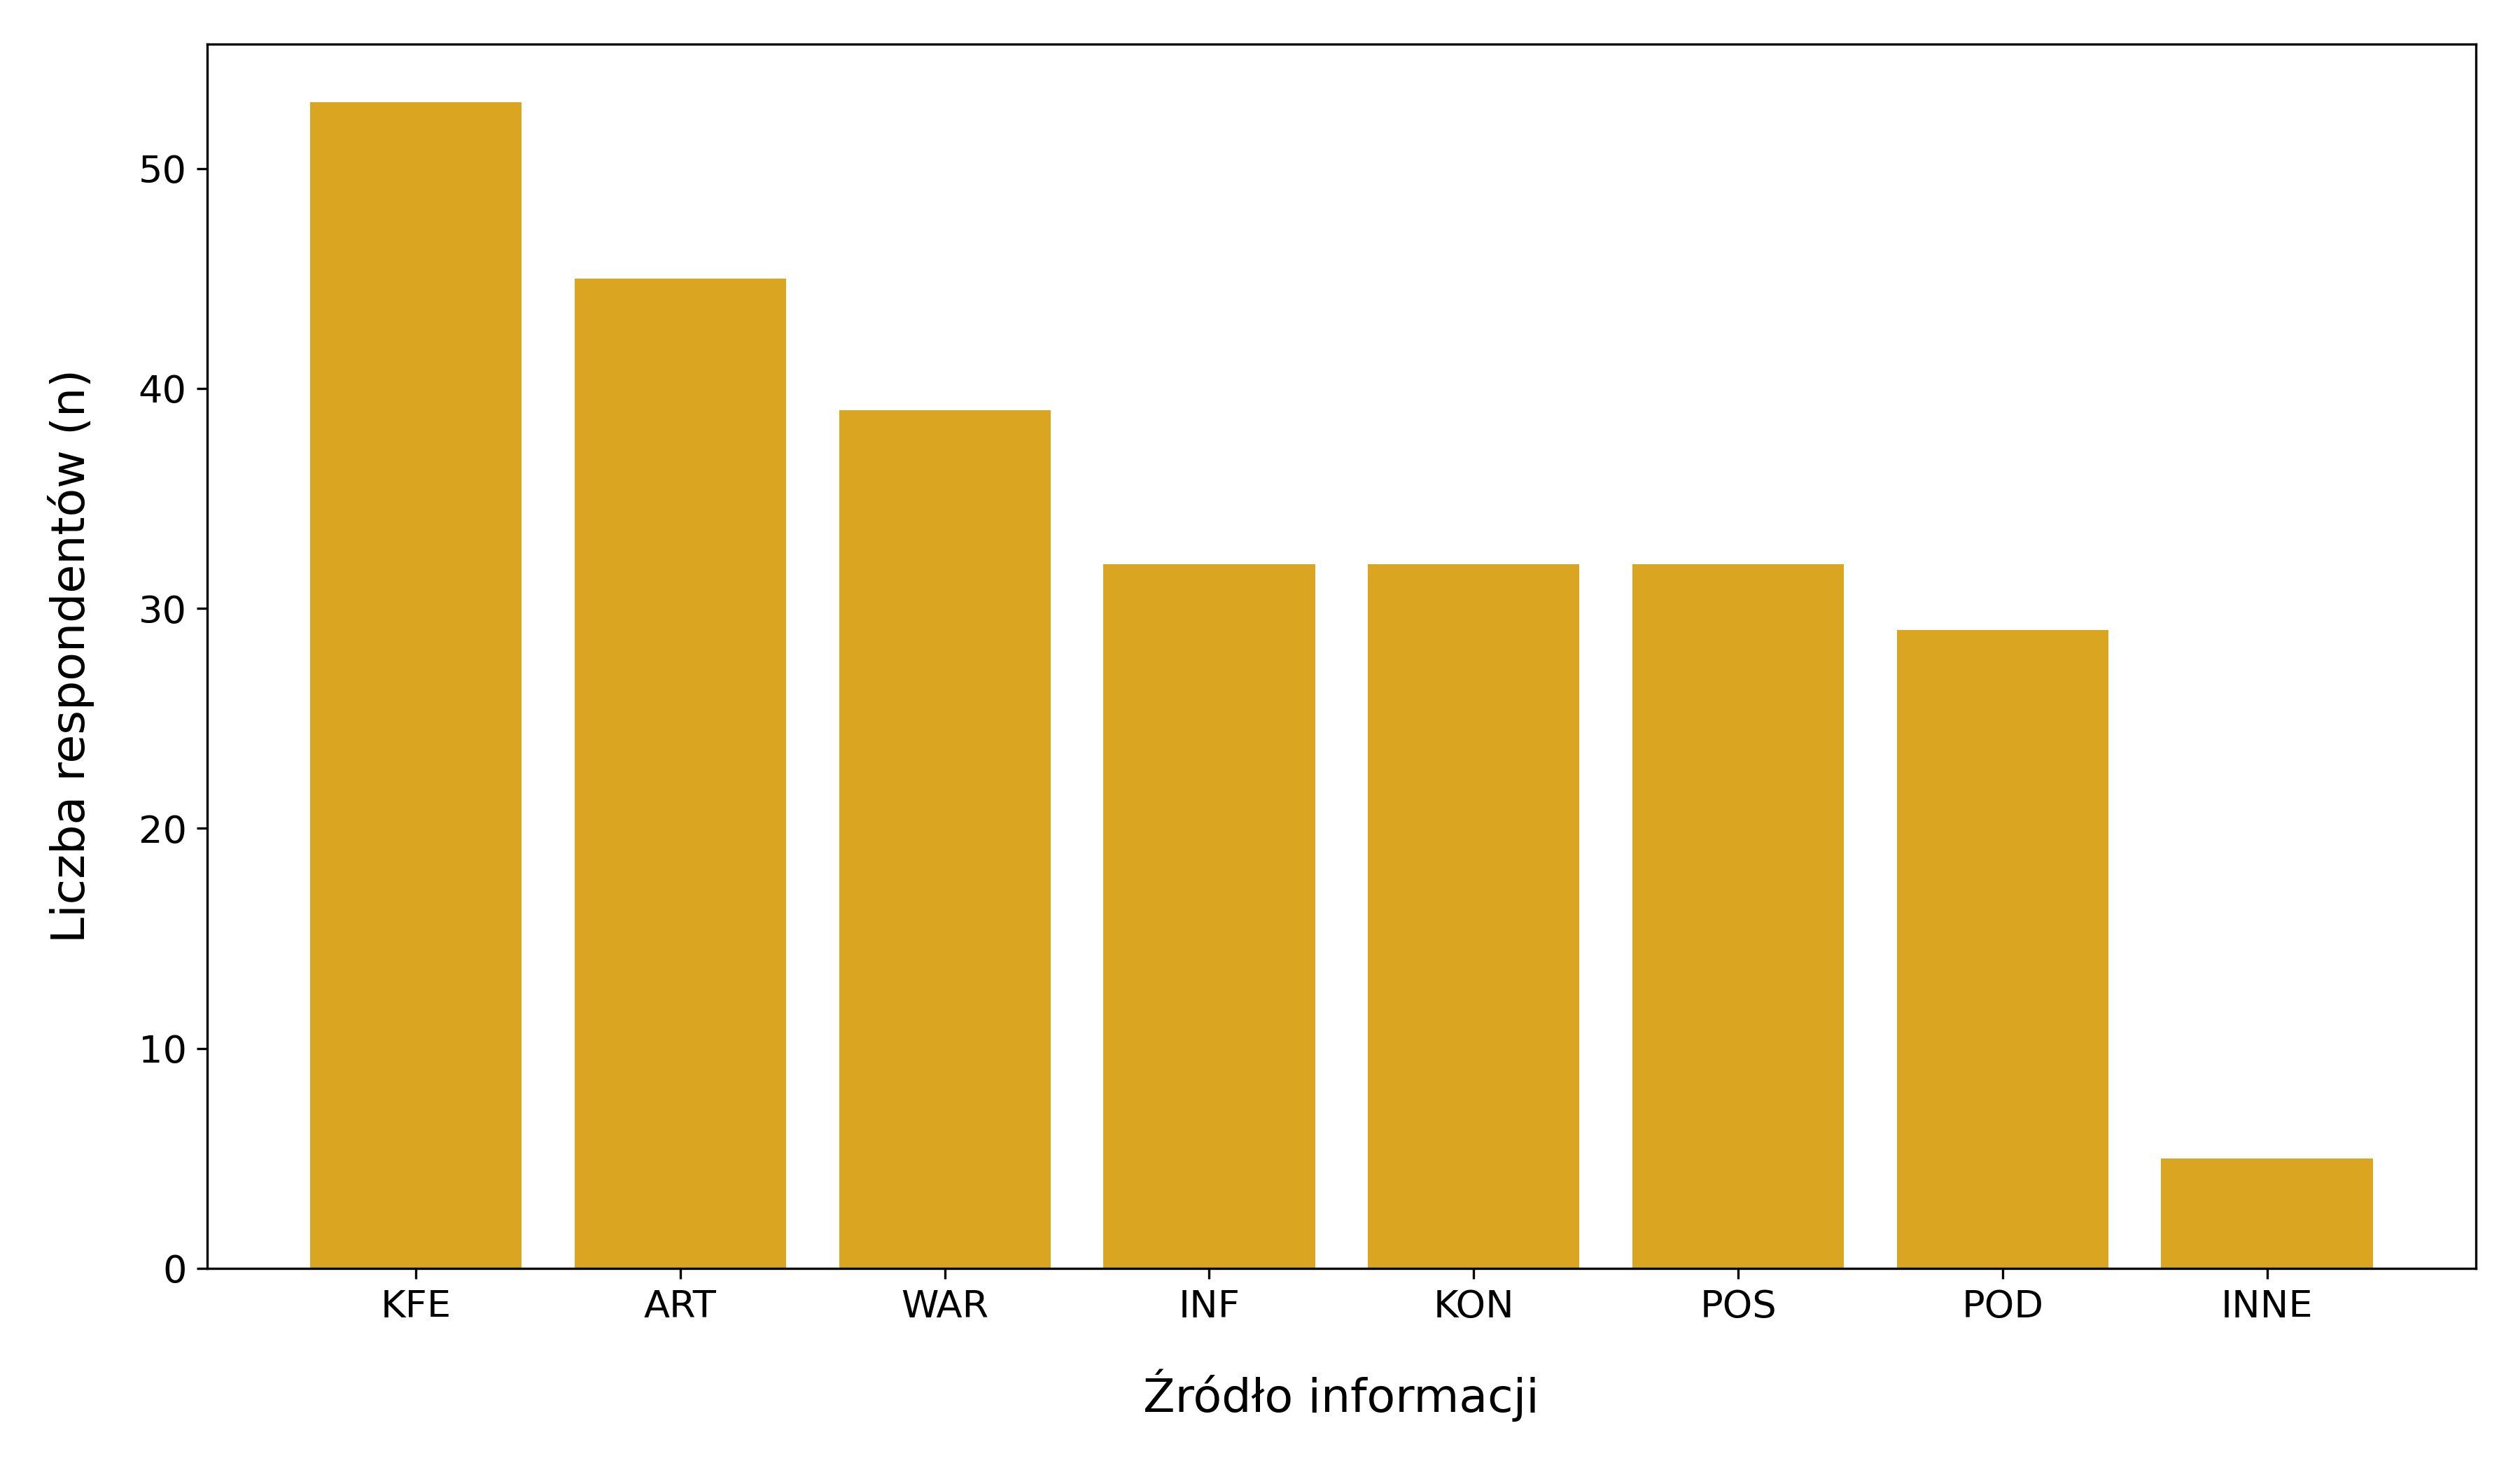
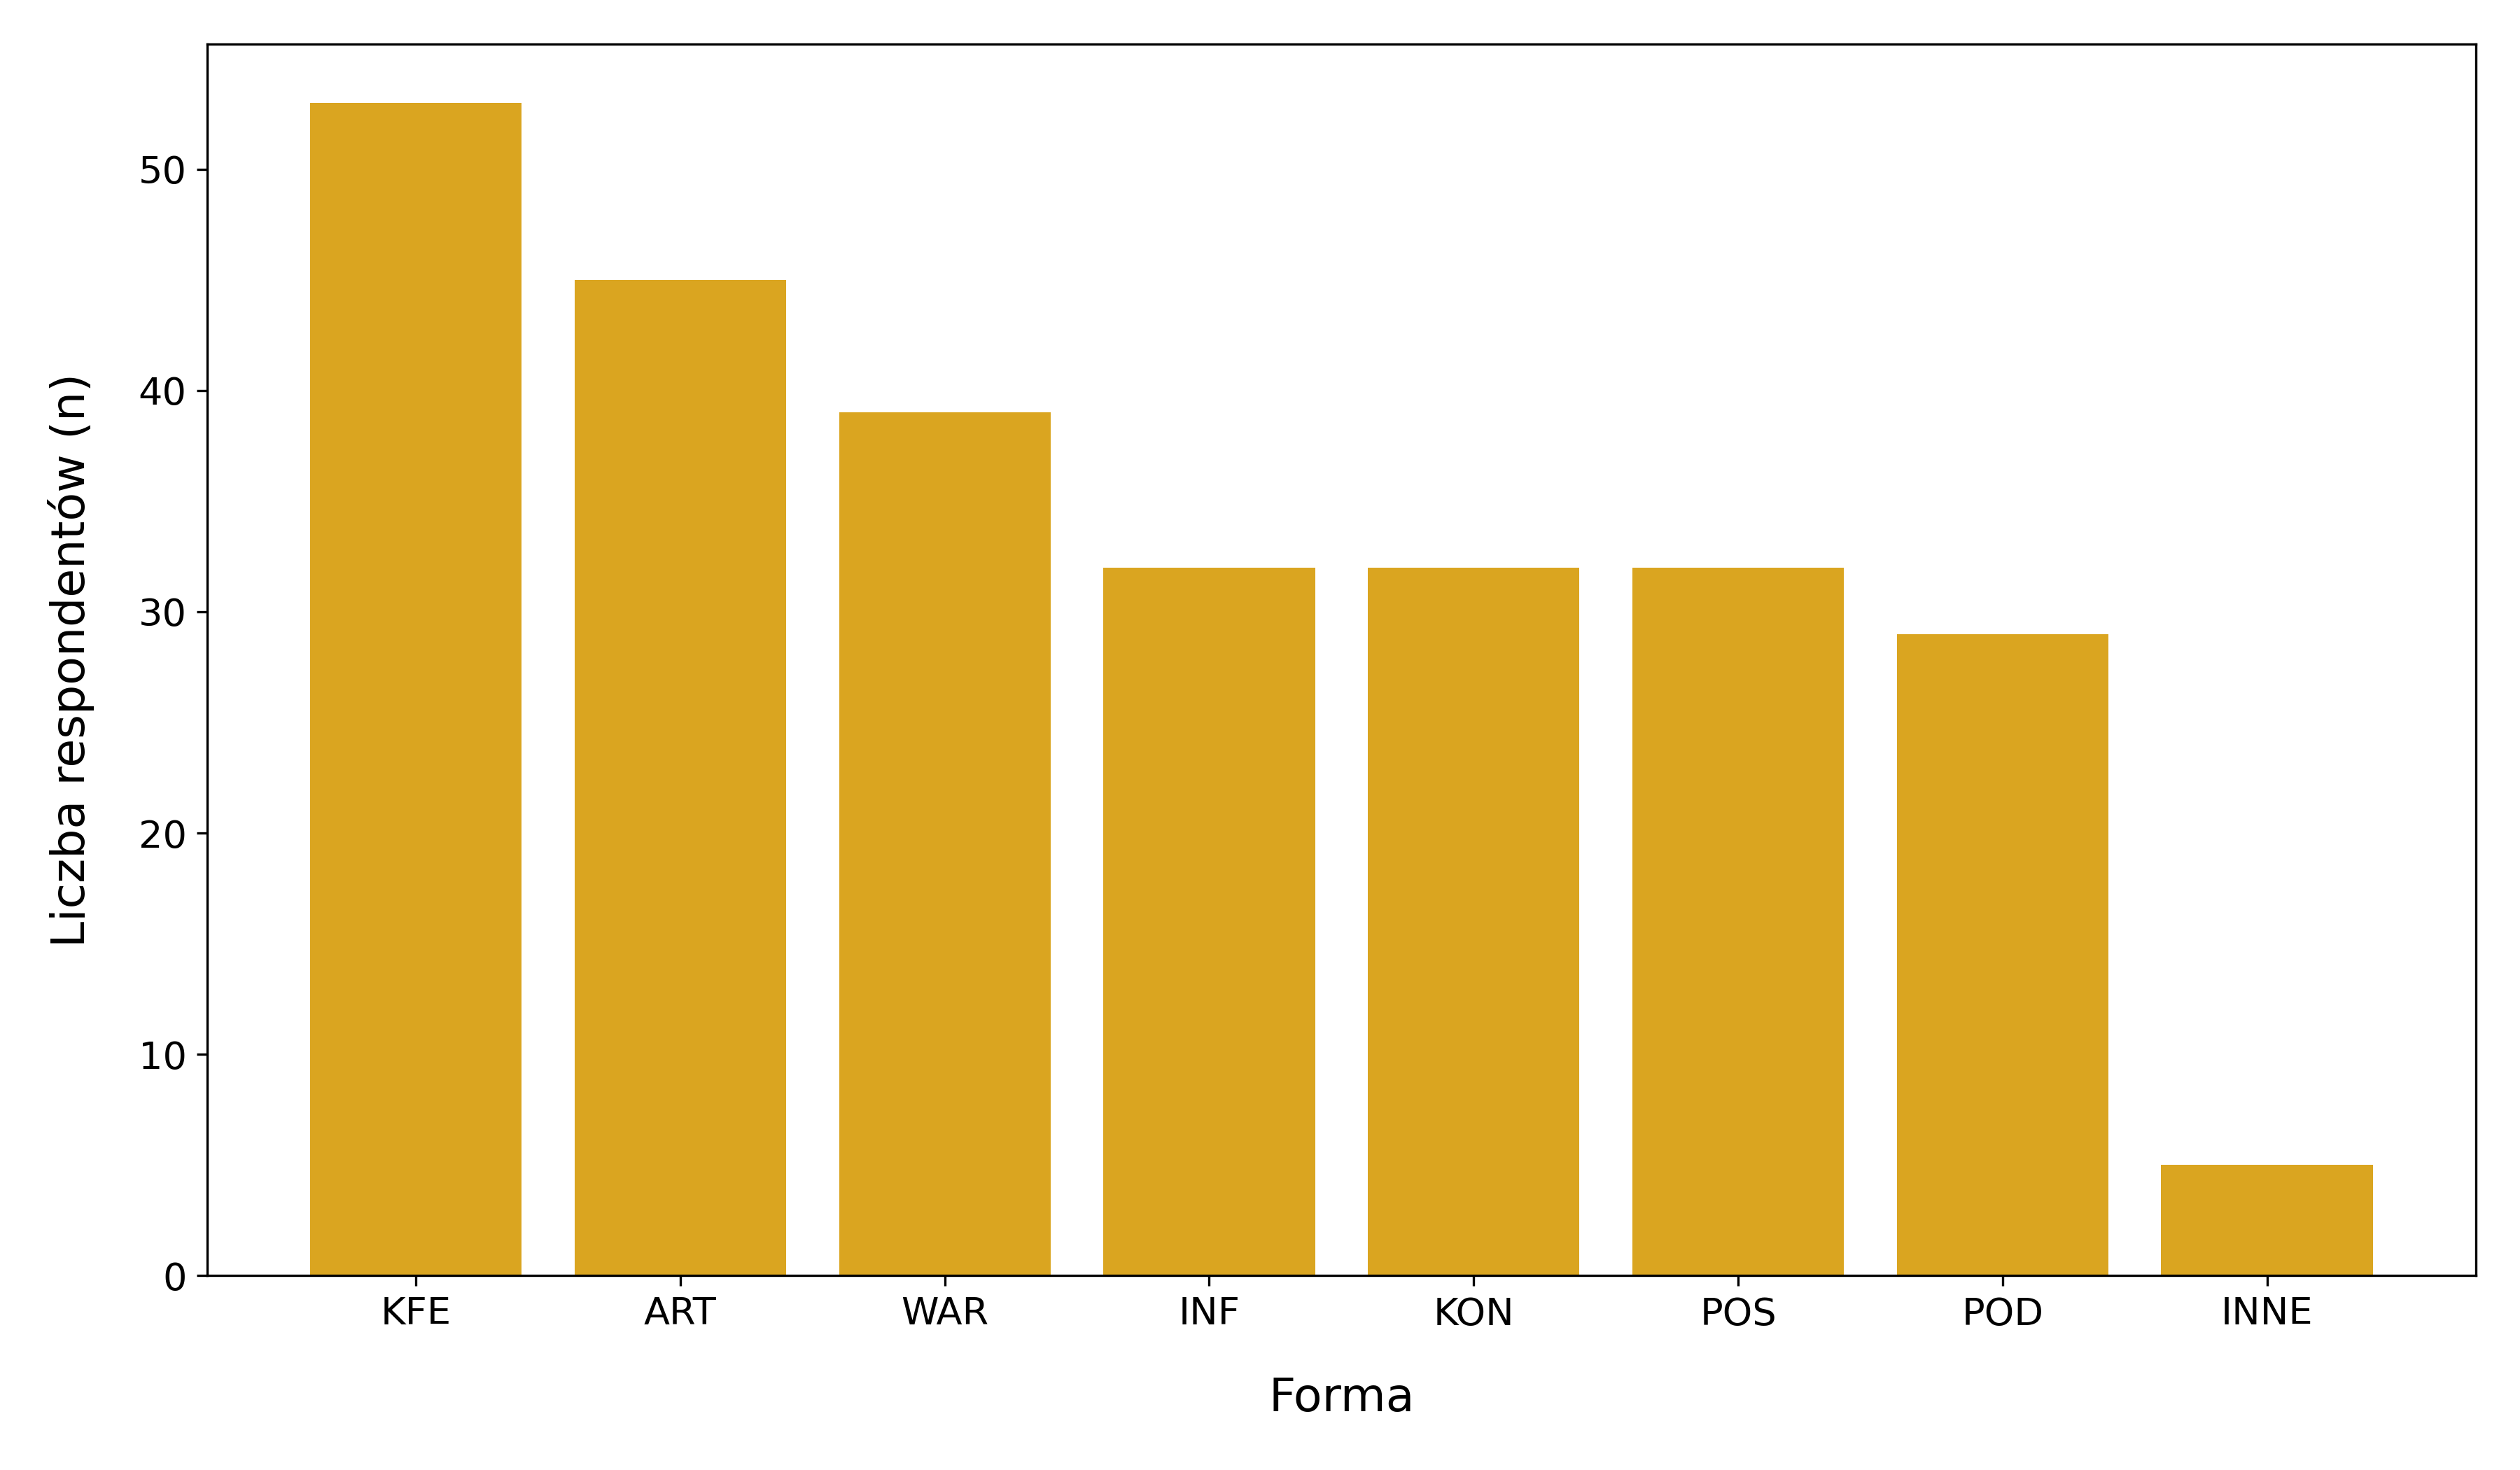
Addition of plots and tables

diff --git a/4-wyniki.tex b/4-wyniki.tex
@@ -19,9 +19,9 @@
         Płeć & n & \% \\
         \hline
         \hline
-        Kobieta & 90 & 84.1\% \\
+        Kobieta & 90 & 84.1 \\
         \hline
-        Mężczyzna & 17 &  15.9\%\\
+        Mężczyzna & 17 &  15.9\\
         \hline
     \end{tabular}
 \end{table}
@@ -79,37 +79,37 @@
         Kierunek studiów & n & \% \\
         \hline
         \hline
-        Psychologia & 51 & 47.2\% \\
+        Psychologia & 51 & 47.2 \\
         \hline
-        Dietetyka & 27 & 25\% \\
+        Dietetyka & 27 & 25 \\
         \hline
-        Informatyka & 4 & 3.7\% \\
+        Informatyka & 4 & 3.7 \\
         \hline
-        Filologia & 3 & 2.7\% \\
+        Filologia & 3 & 2.7 \\
         \hline
-        Finanse i rachunkowość & 3 & 2.7\% \\
+        Finanse i rachunkowość & 3 & 2.7 \\
         \hline
-        Fizjoterapia & 3 & 2.7\% \\
+        Fizjoterapia & 3 & 2.7 \\
         \hline
-        Logistyka & 3 & 2.7\% \\
+        Logistyka & 3 & 2.7 \\
         \hline
-        Business & 2 & 1.8\%\\
+        Business & 2 & 1.8\\
         \hline
-        Kryminologia i kryminalistyka & 2 & 1.8\% \\
+        Kryminologia i kryminalistyka & 2 & 1.8 \\
         \hline
-        Medycyna & 2 & 1.8\% \\
+        Medycyna & 2 & 1.8 \\
         \hline
-        Prawo & 2 & 1.8\% \\
+        Prawo & 2 & 1.8 \\
         \hline
-        Psychologia i psychoterapia & 2 & 1.8\% \\
+        Psychologia i psychoterapia & 2 & 1.8 \\
         \hline
-        Administracja & 1 & 0.9\% \\
+        Administracja & 1 & 0.9 \\
         \hline
-        Behawiorystyka i psychologia zwierząt & 1 & 0.9\% \\
+        Behawiorystyka i psychologia zwierząt & 1 & 0.9 \\
         \hline
-        Bezpieczeństwo wewnętrzne & 1 & 0.9\% \\
+        Bezpieczeństwo wewnętrzne & 1 & 0.9 \\
         \hline
-        Mediacja sztuki & 1 & 0.9\% \\
+        Mediacja sztuki & 1 & 0.9 \\
         \hline
     \end{tabular}
 \end{table}
@@ -123,15 +123,15 @@
         Aktywność fizyczna & n & \% \\
         \hline
         \hline
-        Nigdy & 4 & 3.7\% \\
+        Nigdy & 4 & 3.7 \\
         \hline
-        Rzadziej niż raz w tygodniu & 36 & 33.6\% \\
+        Rzadziej niż raz w tygodniu & 36 & 33.6 \\
         \hline
-        1–2 razy w tygodniu	& 28 & 26.2\% \\
+        1–2 razy w tygodniu	& 28 & 26.2 \\
         \hline
-        3–4 razy w tygodniu & 25 & 23.4\% \\
+        3–4 razy w tygodniu & 25 & 23.4 \\
         \hline
-        5 lub więcej razy w tygodniu & 14 & 13.1\% \\
+        5 lub więcej razy w tygodniu & 14 & 13.1 \\
         \hline
     \end{tabular}
 \end{table}
@@ -189,9 +189,9 @@
         Aktualne stosowanie suplementów & n & \% \\
         \hline
         \hline
-        Tak & 97 & 90.7\% \\
+        Tak & 97 & 90.7 \\
         \hline
-        Nie & 10 & 9.3\% \\
+        Nie & 10 & 9.3 \\
         \hline
     \end{tabular}
 \end{table}
@@ -380,7 +380,6 @@
     \includegraphics[width=\textwidth]{plots/powody-suplementacji.png}
     \centering
     \caption{Wykres słupkowy pokazujący powody suplementacji w grupie badawczej. Zastosowane skróty: POPZDR - Poprawa zdrowia, ZAPNIE - Zapobieganie niedoborom, WZMODP - Wzmocnienie odporności, POPWYG - Poprawa wyglądu (skóra włosy paznokcie), ZWIENE - Zwiększenie energii, POPKON - Poprawa koncentracji, POPSAM - Poprawa samopoczucia, INNE - Inne odpowiedzi.}
-
     \label{fig:powody-supl}
 \end{figure}
 
@@ -394,6 +393,120 @@
 \subsection{Źródła wiedzy}
 
 % Należy pokazać, skąd studenci czerpią wiedzę o suplementach.
+
+% Źródła
+
+\begin{table}[h!]
+    \centering
+    \caption{Źródła informacji}
+    \label{tab:zrodla-info}
+    \begin{tabular}{|l|l|l|}
+        \hline
+        Źródło & n  & \% respondentów \\
+        \hline
+        \hline
+        Internet (artykuły, blogi) & 67 & 69.07 \\
+        \hline
+        Lekarz & 39 & 40.21 \\
+        \hline
+        Dietetyk & 37 & 38.14 \\
+        \hline
+        Media społecznościowe  & 31 & 31.96 \\
+        \hline
+        Znajomi/rodzina & 29 & 29.9 \\
+        \hline
+        Farmaceuta & 27 & 27.84 \\
+        \hline
+        Reklamy & 10 & 10.31 \\
+        \hline
+        Inne odpowiedzi & 10  & 10.31 \\
+        \hline
+    \end{tabular}
+\end{table}
+
+\begin{figure}
+    \includegraphics[width=\textwidth]{plots/zrodla-informacji.png}
+    \centering
+    \caption{Wykres pokazujący źródła informacji o suplementach w grupie badawczej. Zastosowane skróty: INT - Internet (artykuły, blogi), LEK - Lekarz, DIET - Dietetyk, MED-SPO - Media społecznościowe, ZNA-ROD - Znajomi/rodzina, FARM - Farmaceuta, REK - Reklamy, INNE - Inne odpowiedzi.}
+    \label{fig:zrodla-info}
+\end{figure}
+
+% Wiarygodne źródła
+
+\begin{table}[h!]
+    \centering
+    \caption{Wiarygodne źródła informacji. Zastosowane skróty: PROF - \enquote{Takie, którego polecenia nie wynikają z profitów jakie otrzymują}, FUNK - \enquote{Lekarze medycyny funkcjonalnej}, ZBR - \enquote{Portale zbierające wyniki badań lub też oponie specjalistów, ale wielu, żeby mozna było porównać podejścia, nie ufam jednemu lekarzowi, dietetykowi itp. ponieważ każdy mówi co innego}.}
+    \label{tab:wiarygodne-zrodla}
+    \begin{tabular}{|l|l|l|}
+        \hline
+        Źródło & n  & \% respondentów \\
+        \hline
+        \hline
+        Lekarz & 67 & 69.07 \\
+        \hline
+        Naukowe portale internetowe & 39 & 40.21 \\
+        \hline
+        Instytucje zdrowia publicznego & 37 & 38.14 \\
+        \hline
+        Dietetyk & 31 & 31.96 \\
+        \hline
+        Farmaceuta & 29 & 29.9 \\
+        \hline
+        Badania naukowe & 27 & 27.84 \\
+        \hline
+        PROF & 10 & 10.31 \\
+        \hline
+        FUNK & 10  & 10.31 \\
+        \hline
+        ZBR & 10  & 10.31 \\
+        \hline
+    \end{tabular}
+\end{table}
+
+\begin{figure}
+    \includegraphics[width=\textwidth]{plots/wiarygodne-zrodla.png}
+    \centering
+    \caption{Wykres pokazujący zaufanie w różne źródła informacji o suplementach w grupie badawczej. Zastosowane skróty: LEK - Lekarz, NAUK - Naukowe portale internetowe, INST - Instytucje zdrowia publicznego, DIET - Dietetyk, FARM - Farmaceuta, BAD - Badania naukowe, PROF - \enquote{Takie, którego polecenia nie wynikają z profitów jakie otrzymują}, FUNK - \enquote{Lekarze medycyny funkcjonalnej}, ZBR - \enquote{Portale zbierające wyniki badań lub też oponie specjalistów, ale wielu, żeby mozna było porównać podejścia, nie ufam jednemu lekarzowi, dietetykowi itp. ponieważ każdy mówi co innego}.}
+    \label{fig:wiarygodne-zrodla}
+\end{figure}
+
+% Preferowane formy edukacji
+
+\begin{table}[h!]
+    \centering
+    \caption{Preferowane formy edukacji}
+    \label{tab:formy}
+    \begin{tabular}{|l|l|l|}
+        \hline
+        Forma & n  & \% respondentów \\
+        \hline
+        \hline
+        Krótkie filmy edukacyjne & 53 & 54.64 \\
+        \hline
+        Artykuły popularnonaukowe & 45 & 46.39 \\
+        \hline
+        Warsztaty na uczelni & 39 & 40.21 \\
+        \hline
+        Infografiki & 32 & 32.99 \\
+        \hline
+        Konsultacje z farmaceutą & 32 & 32.99 \\
+        \hline
+        Posty na Instagramie/TikToku & 32 & 32.99 \\
+        \hline
+        Podcasty & 29 & 29.9 \\
+        \hline
+        Inne odpowiedzi & 5 & 5.15 \\
+        \hline
+    \end{tabular}
+\end{table}
+
+\begin{figure}
+    \includegraphics[width=\textwidth]{plots/preferowane-zrodla.png}
+    \centering
+    \caption{Wykres pokazujący preferowane formy edukacji o suplementach w grupie badawczej. Zastosowane skróty: KFE - Krótkie filmy edukacyjne, ART - Artykuły popularnonaukowe, WAR - Warsztaty na uczelni, INF - Infografiki, KON - Konsultacje z farmaceutą, POS - Posty na Instagramie/TikToku, POD - Podcasty, INNE - Inne odpowiedzi.}
+    \label{fig:formy}
+\end{figure}
+
 % Tabela 7. Źródła informacji o suplementach diety
 % Źródło informacji, n, %
 %     + Internet
@@ -406,6 +519,8 @@
 %     + Inne
 % Wykres
 % Poziomy wykres słupkowy.
+
+
 % Statystyka
 % Opisowo:
 %     + n,

diff --git a/plots/plot.py b/plots/plot.py
@@ -281,12 +281,12 @@ plot_bar(df_powody,
 df_zrodla = pd.DataFrame({
     'Źródło' : ['INT', 'LEK', 'DIET', 'MED-SPO', 'ZNA-ROD', 'FARM', 'REK', 'INNE'],
     # 'Źródło'               : ['Internet (artykuły, blogi)',
-    #                           'Media społecznościowe',
-    #                           'Reklamy',
     #                           'Lekarz',
     #                           'Dietetyk',
-    #                           'Farmaceuta',
+    #                           'Media społecznościowe',
     #                           'Znajomi/rodzina',
+    #                           'Farmaceuta',
+    #                           'Reklamy',
     #                           'Inne odpowiedzi'],
     'n'                              : [67, 39, 37, 31, 29, 27, 10, 10],
     'procent'                        : [69.07, 40.21, 38.14, 31.96, 29.9, 27.84, 10.31, 10.31]
@@ -338,12 +338,12 @@ plot_bar(df_wiarygodne,
 df_preferowane = pd.DataFrame({
     'Źródło' : ['KFE', 'ART', 'WAR', 'INF', 'KON', 'POS', 'POD', 'INNE'],
     # 'Źródła'               : ['Krótkie filmy edukacyjne',
-    #                           'Infografiki',
-    #                           'Podcasty',
+    #                           'Artykuły popularnonaukowe',
     #                           'Warsztaty na uczelni',
+    #                           'Infografiki',
     #                           'Konsultacje z farmaceutą',
     #                           'Posty na Instagramie/TikToku',
-    #                           'Artykuły popularnonaukowe',
+    #                           'Podcasty',
     #                           'Inne odpowiedzi'],
     'n'         : [53, 45, 39, 32, 32, 32, 29, 5],
     'procent'   : [54.64, 46.39, 40.21, 32.99, 32.99, 32.99, 29.9, 5.15]
@@ -355,7 +355,7 @@ plot_bar(df_preferowane,
          title='Preferowane źródła',
          filename='preferowane-zrodla.png',
          rotate_xticks=True,
-         x_label='Źródło informacji',
+         x_label='Forma',
          y_label='Liczba respondentów (n)',
          bar_color='goldenrod')
 